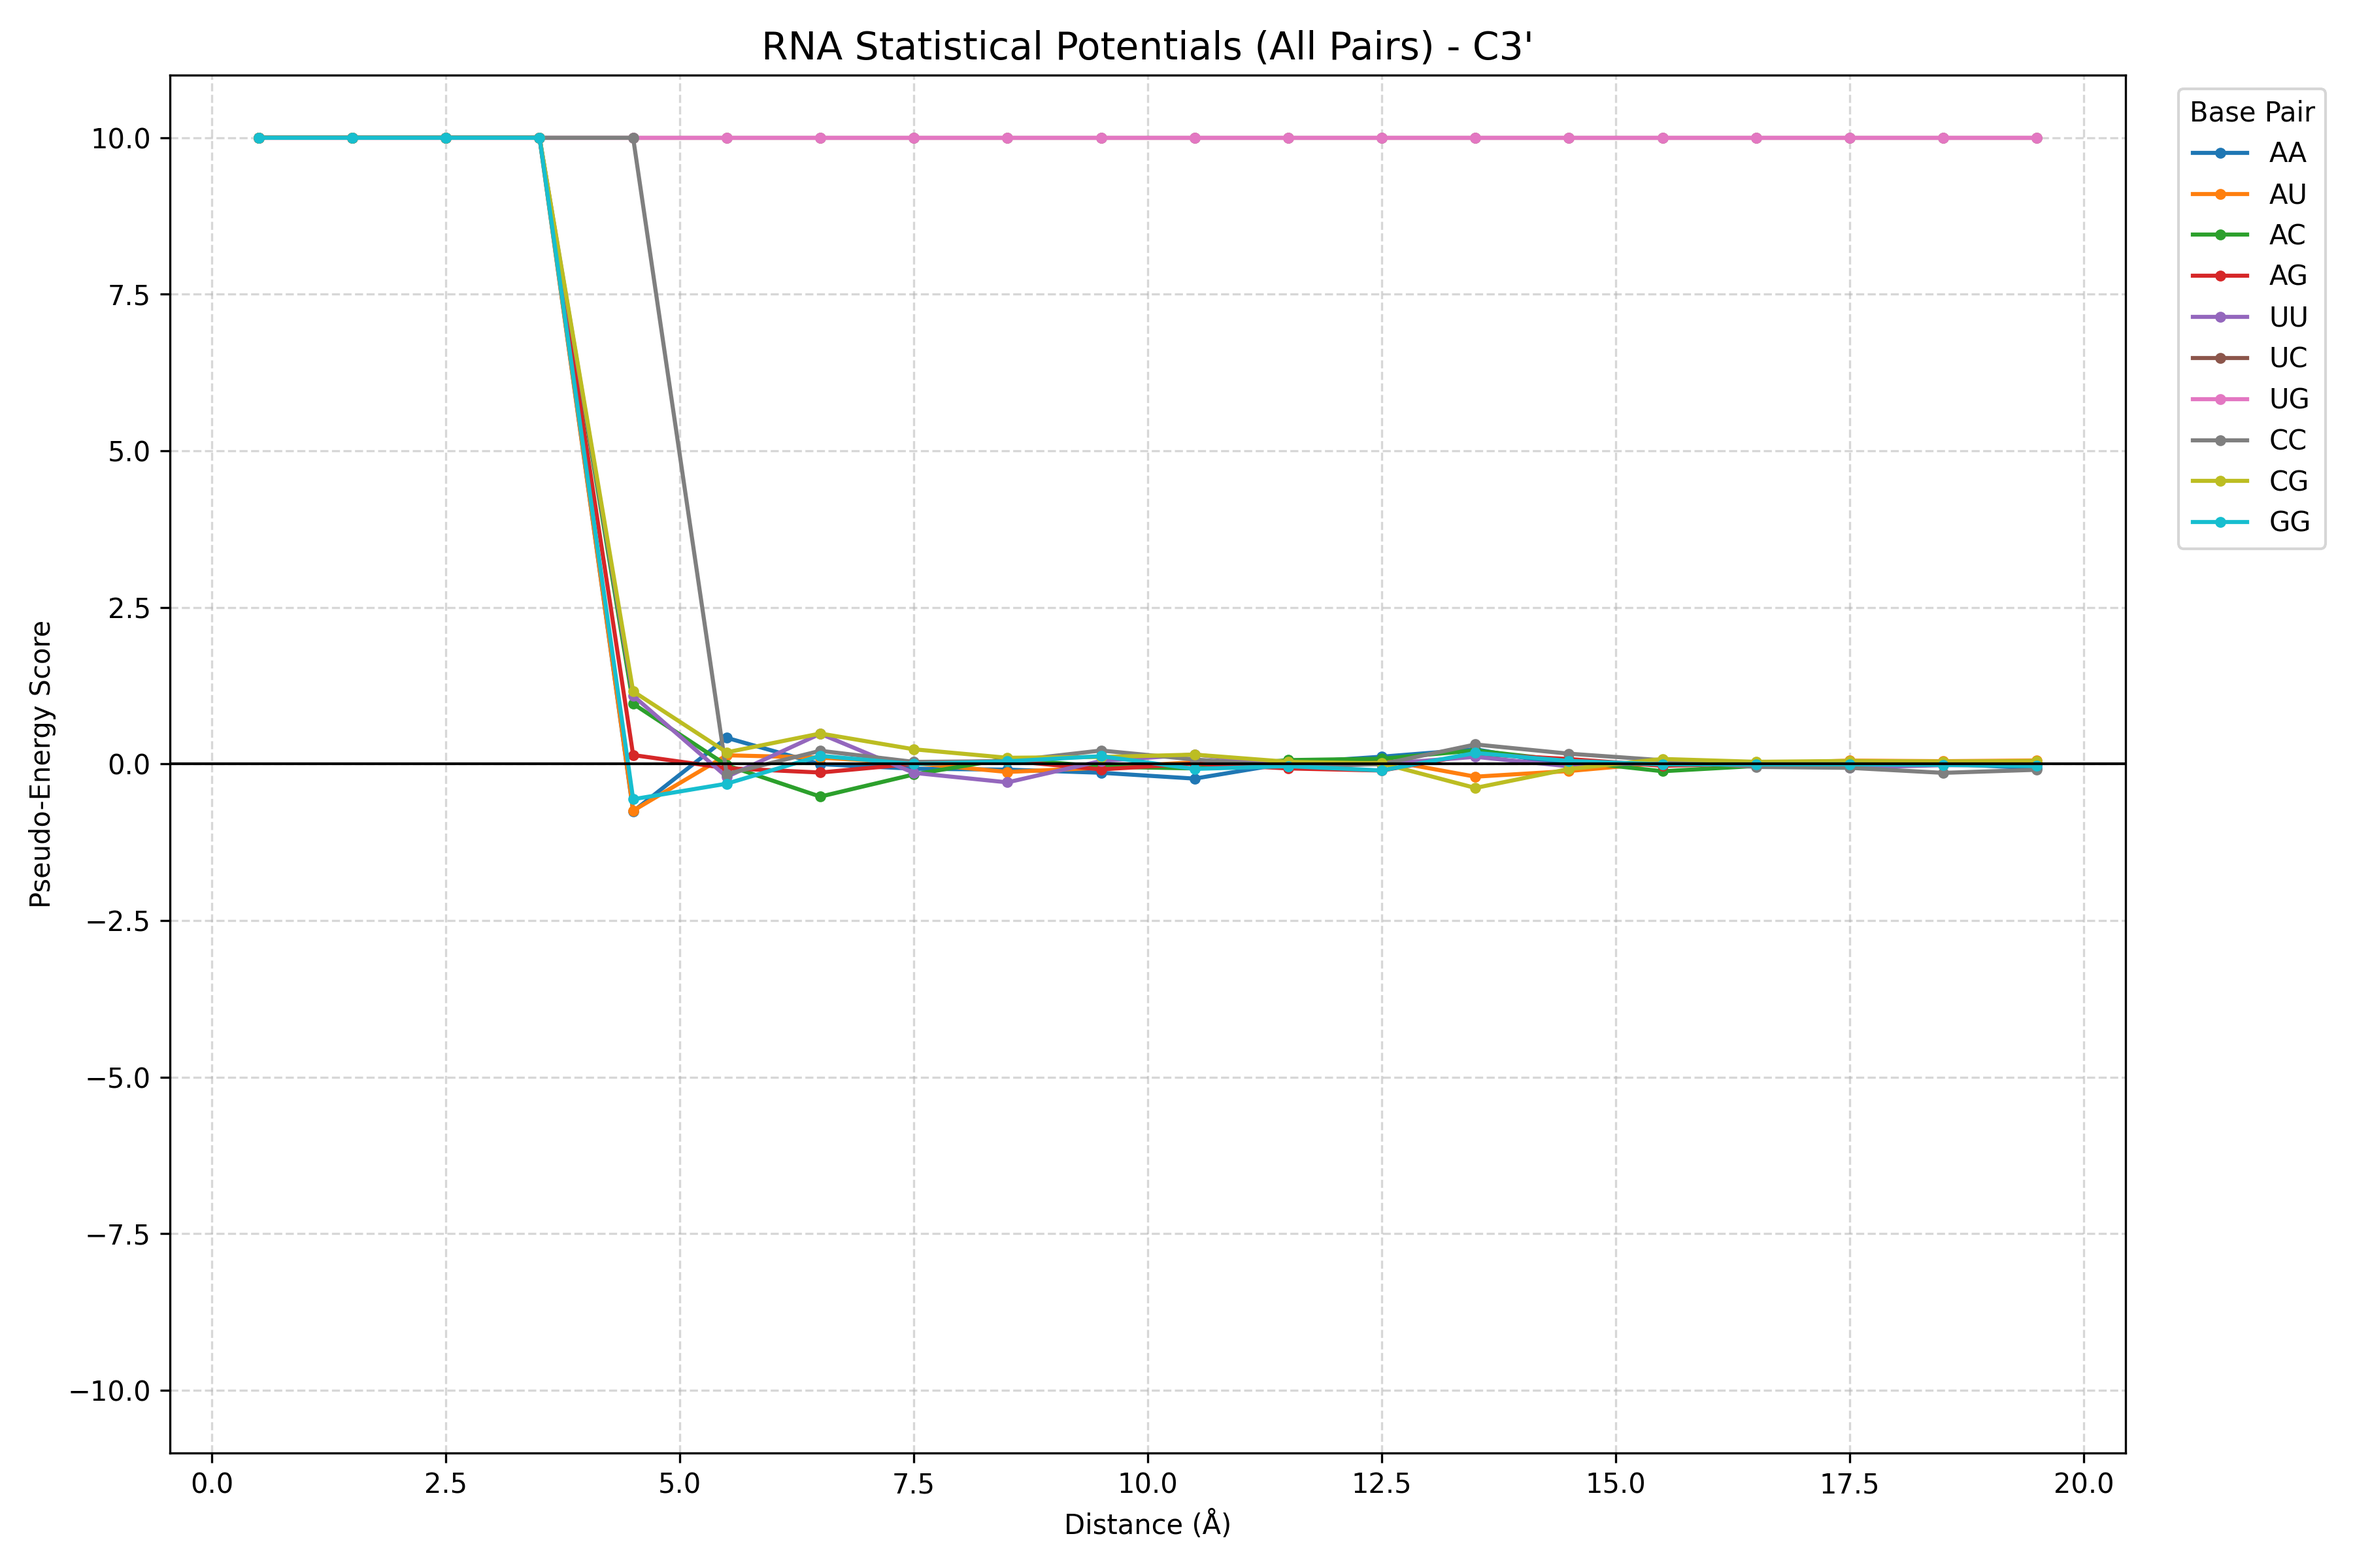
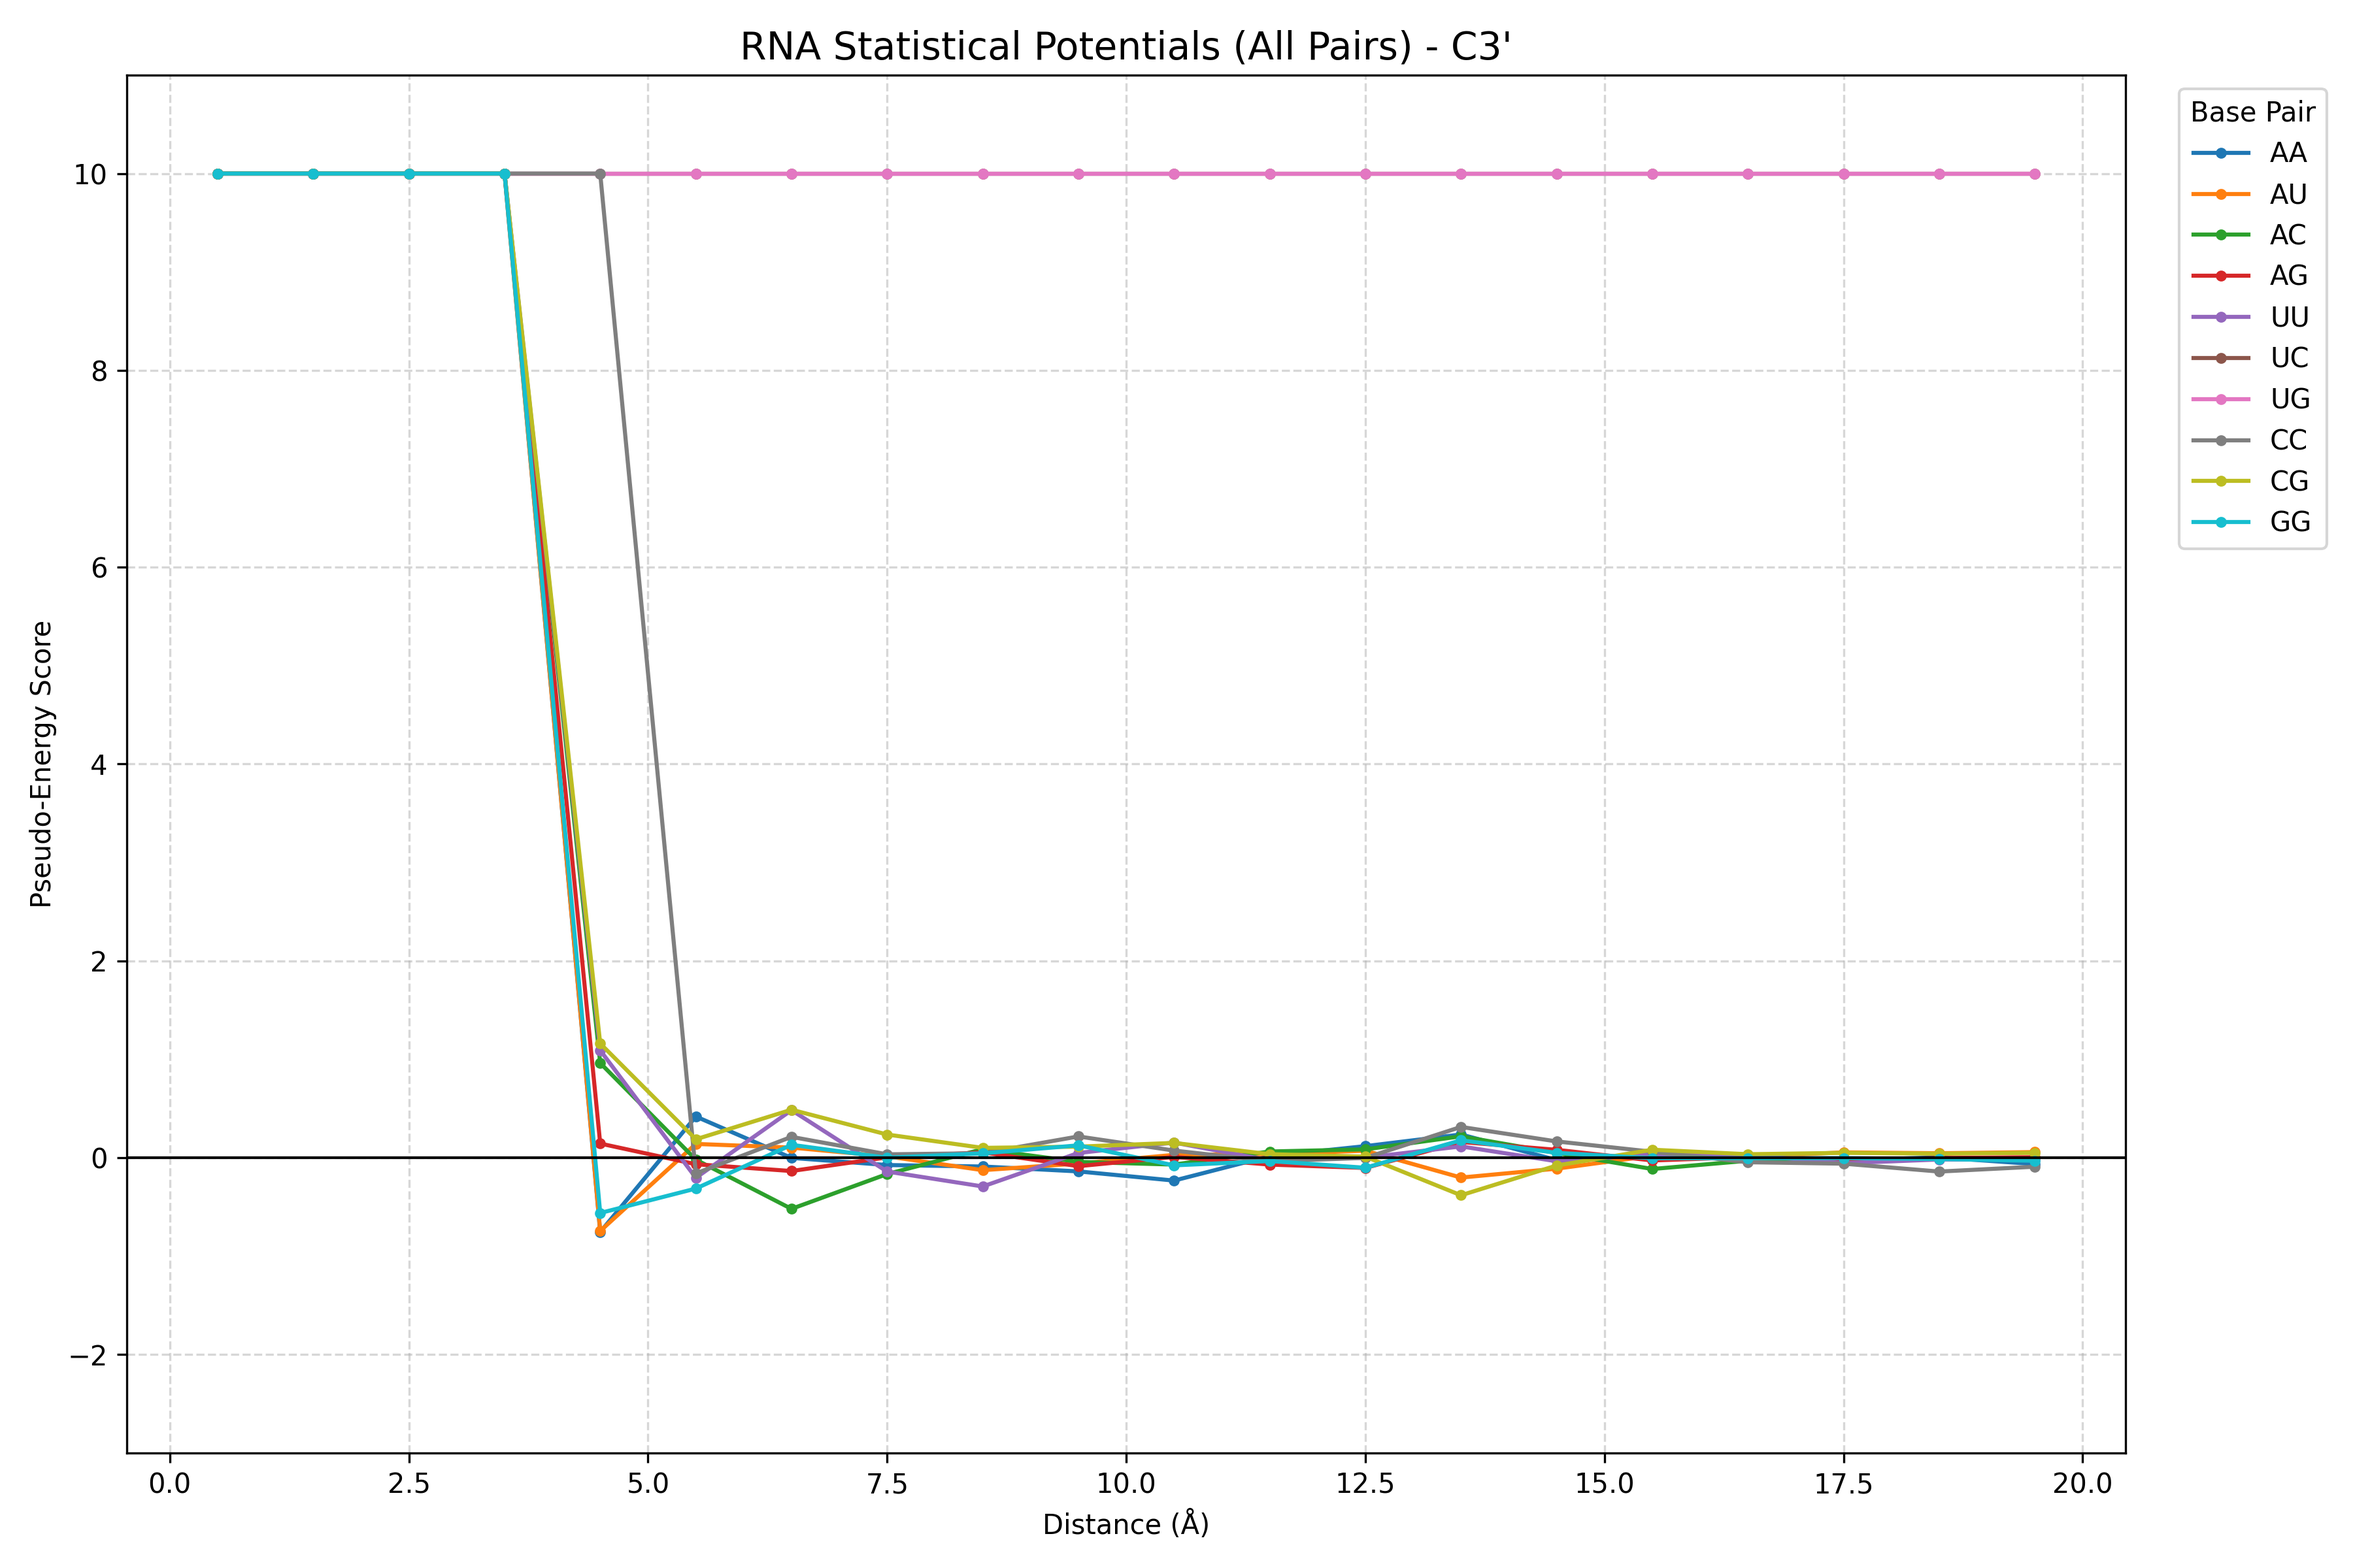
better y axis for the plotting

diff --git a/RNA_project/plot_potentials.py b/RNA_project/plot_potentials.py
@@ -62,7 +62,7 @@ def create_combined_plot(x_axis, data, atom, out_file):
     plt.xlabel("Distance (Å)")
     plt.ylabel("Pseudo-Energy Score")
     plt.axhline(0, color="black", linestyle="-", linewidth=1)
-    plt.ylim(-11, 11)
+    plt.ylim(-3, 11)
     plt.legend(bbox_to_anchor=(1.02, 1), loc="upper left", title="Base Pair")
     plt.grid(True, which="both", linestyle="--", alpha=0.5)
     plt.tight_layout()
@@ -89,7 +89,7 @@ def create_grid_plot(x_axis, data, atom, max_dist, out_file):
 
         # Styling
         ax.axhline(0, color="black", linestyle="-", linewidth=0.8)
-        ax.set_ylim(-11, 11)
+        ax.set_ylim(-3, 11)
         ax.grid(True, linestyle="--", alpha=0.5)
 
         # Labels only on outer edges to save space
